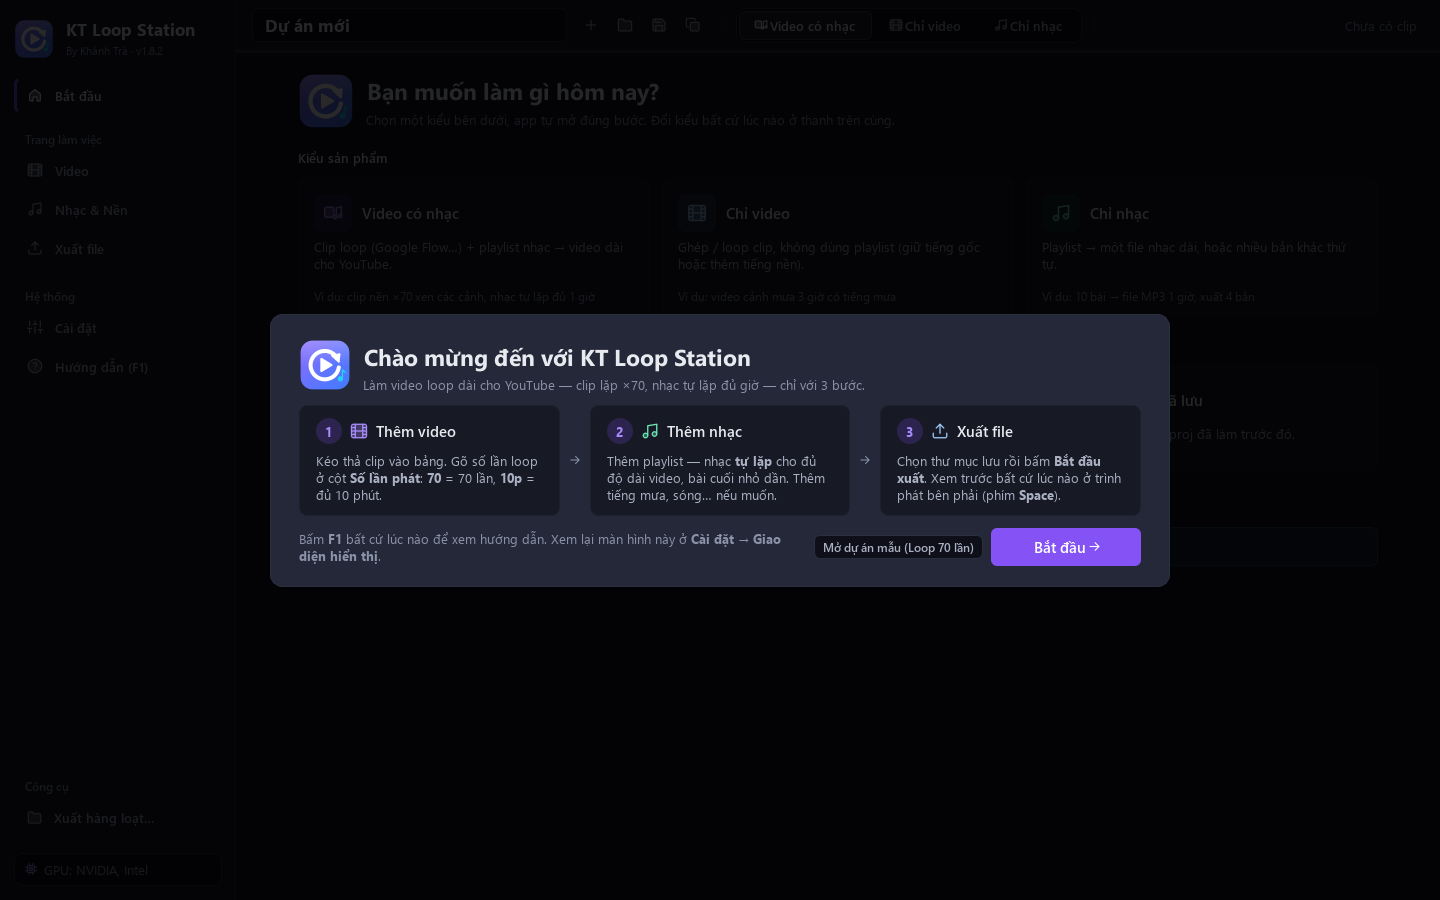
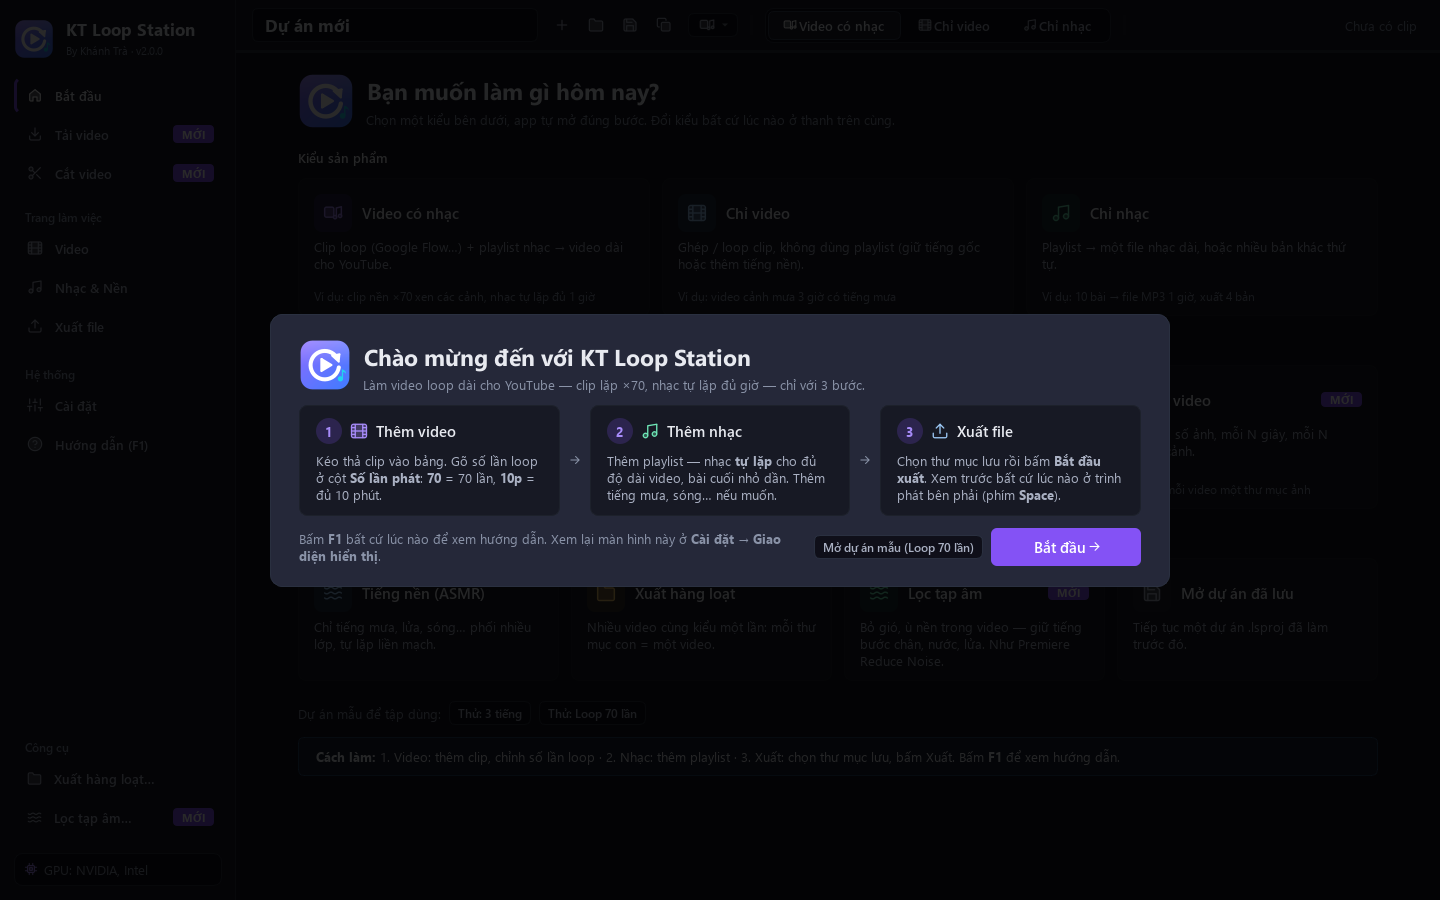
README 2.0: Tải video, Cắt video có ảnh chụp mới, bảng tính năng thêm 3 mục, các bản cũ gấp lại; ảnh chụp chụp lại toàn bộ; ô Chọn tất cả hiện rõ trạng thái chọn một phần

diff --git a/tests/make_screenshots.py b/tests/make_screenshots.py
@@ -154,6 +154,59 @@ wait(0.8)
 lib.grab().save(str(OUT / "10-thu-vien-mau.png"))
 lib.reject()
 
+# Tải video: danh sách mẫu (không gọi mạng) — logo nền tảng, đang tải có thanh tiến độ, nhóm kênh, cột Cài đặt tải
+from loopstation.core.downloader import Group, Item  # noqa: E402
+from loopstation.ui.download_page import PROG_ROLE  # noqa: E402
+dp = win.download_page
+dp._exe_override = ["khong-goi-mang"]  # coi như đã cài công cụ tải (ảnh chụp không tải gì)
+dp._refresh_ready()
+win.go_to(mw.DOWNLOAD_PAGE)
+wait(0.5)
+win.grab().save(str(OUT / "12-tai-video-trong.png"))  # màn hình trống: hướng dẫn 3 bước + logo
+demo_rows = [("Mưa rừng nhiệt đới 3 giờ — tiếng mưa thư giãn", "YouTube", 10800, "Kênh Chill"),
+             ("Hoàng hôn trên biển", "TikTok", 45, "@bien.xanh"), ("城市夜景 4K", "Bilibili", 312, "UP主"),
+             ("Phố cổ về đêm", "Douyin", 30, "抖音用户"), ("Reel cà phê sáng", "Instagram", 20, "cafe.sang"),
+             ("Timelapse mây trời", "X", 58, "@sky"), ("Lửa trại ấm áp", "Facebook", 600, "Camping VN")]
+for i, (t, pf, d, up) in enumerate(demo_rows):
+    e = dp.queue.add_item(Item(f"https://example.com/v{i}", f"v{i}", t, pf, d, "", uploader=up))
+    dp._add_row(e)
+es = dp.queue.entries
+es[0].status, es[0].codec = "done", ""
+es[1].status = "running"
+es[6].status, es[6].message, es[6].checked = "error", "Cần đăng nhập — bấm Đăng nhập trong app", False
+for e in es:
+    dp._paint(e)
+dp._paint(es[1], "62% · 4,8 MB/s")
+dp._row(es[1]).setData(3, PROG_ROLE, 0.62)
+dp.queue.add_group(Group("https://example.com/@kenh/videos", "Kênh Lofi Chill", 0,
+                         [Item(f"https://example.com/k{i}", f"k{i}", f"Lofi số {i + 1}", "YouTube", 180 + i, "",
+                               uploader="Kênh Lofi Chill") for i in range(50)]), 50)
+for e in dp.queue.entries[len(demo_rows):len(demo_rows) + 3]:
+    dp._add_row(e)
+dp._busy = False
+dp._set_busy(True)
+dp._fracs[id(es[1])] = 0.62
+dp._run_done = 1
+dp._changed()
+wait(0.8)
+win.grab().save(str(OUT / "11-tai-video.png"))
+dp._anim.stop()
+dp._busy = False
+dp.queue.clear()
+dp.tree.clear()
+dp._rows.clear()
+dp._group_rows.clear()
+
+# Cắt video: Chia đoạn + Xuất ảnh với 2 video mẫu
+cp = win.cut_page
+cp.add_files([str(x) for x in sorted((ROOT / "Mau-Test" / "Video").glob("*.mp4"))[:3]])
+win.go_to(mw.CUT_PAGE)
+wait(2.5)
+win.grab().save(str(OUT / "13-cat-video.png"))
+cp.set_tab("frames")
+wait(0.8)
+win.grab().save(str(OUT / "14-xuat-anh.png"))
+
 win._closing = True
 win.close()
 wait(0.3)

diff --git a/loopstation/ui/theme.py b/loopstation/ui/theme.py
@@ -588,6 +588,8 @@ QCheckBox::indicator, QTreeView::indicator {{ width: 16px; height: 16px; border-
 QCheckBox::indicator:hover, QTreeView::indicator:hover {{ border-color: {t['accent_text']}; }}
 QCheckBox::indicator:checked, QTreeView::indicator:checked {{ background: {t['accent']};
     border-color: {t['accent']}; image: url("{check}"); }}
+QCheckBox::indicator:indeterminate, QTreeView::indicator:indeterminate {{ background: {rgba(t['accent'], 0.45)};
+    border-color: {t['accent']}; }}
 QCheckBox:disabled {{ color: {t['text_disabled']}; }}
 QCheckBox::indicator:disabled {{ background: {t['panel']}; border-color: {t['line']}; }}
 QCheckBox::indicator:checked:disabled, QTreeView::indicator:checked:disabled {{ background: {rgba(t['accent'], 0.35)};

diff --git a/tests/make_readme_icons.py b/tests/make_readme_icons.py
@@ -20,7 +20,7 @@ from loopstation.ui import icons  # noqa: E402
 ICONS = {"film": "#a78bfa", "repeat": "#f472b6", "music": "#c4b5fd", "waves": "#22d3ee", "sliders": "#fbbf24",
          "zap": "#34d399", "queue": "#60a5fa", "folder": "#fbbf24", "file_plus": "#93c5fd", "eye": "#f9a8d4",
          "play": "#a78bfa", "sort": "#fb923c", "palette": "#f472b6", "home": "#a78bfa", "help": "#93c5fd",
-         "check": "#34d399", "clock": "#fbbf24", "download": "#a78bfa"}
+         "check": "#34d399", "clock": "#fbbf24", "download": "#a78bfa", "scissors": "#f472b6", "image": "#34d399"}
 for name, color in ICONS.items():
     icons.icon(name, 96, color).pixmap(96, 96).save(str(OUT / f"{name}.png"))
 print("Đã lưu", len(ICONS), "biểu tượng vào", OUT)

diff --git a/README.md b/README.md
@@ -4,7 +4,7 @@
 
 # KT Loop Station
 
-**Ghép và loop clip + nhạc thành video YouTube dài hàng giờ — xem trước ngay trong app, xuất nhanh bằng card đồ hoạ.**
+**Ghép và loop clip + nhạc thành video YouTube dài hàng giờ — tải video từ YouTube, TikTok, Douyin, Bilibili…, chia đoạn, xuất ảnh — xem trước ngay trong app, xuất nhanh bằng card đồ hoạ.**
 
 <sub>By Khánh Trà · Ứng dụng Windows · Giao diện tiếng Việt · Bản mới nhất: <b>2.0.0</b></sub>
 
@@ -35,7 +35,39 @@
 
 ## Có gì mới ở 2.0
 
-> **2.0.0** · <b>Tải video</b> (mục riêng ngay dưới Bắt đầu): dán link YouTube, TikTok, <b>Douyin</b>, Bilibili, X, Facebook, Instagram… — app tự đọc, hiện ảnh bìa, tên, thời lượng; link kênh / danh sách phát hiện thành nhóm. Chọn MP4 / MKV gốc / MP3 / M4A, chất lượng Cao nhất · 1080p · 720p · 480p, <b>Luôn ra H.264</b> (trang chỉ có H.265 / AV1 thì app tự chuyển bằng card đồ hoạ — mở được Premiere, CapCut), lưu kèm ảnh bìa / mô tả, phụ đề, chỉ tải đoạn, tải cùng lúc 2–3 video. Công cụ tải (yt-dlp) cài một lần và tự cập nhật; Douyin tải qua trình duyệt riêng trong app. <b>Cắt video</b>: chia video thành nhiều đoạn (số phần, thời lượng cố định / ngẫu nhiên, danh sách mốc, khoảng A–B) và <b>xuất khung hình</b> (theo số ảnh, khoảng thời gian, số khung, chuyển cảnh), một file hay hàng loạt. Chỉ tải nội dung bạn có quyền dùng.
+### Tải video — dán link là xong
+
+<p align="center"><img src="docs/screenshots/11-tai-video.png" width="900" alt="Trang Tải video: danh sách video có logo nền tảng, thanh tiến độ, nhóm kênh, cột Cài đặt tải"></p>
+
+- **Mục riêng ngay dưới Bắt đầu.** Dán một hoặc nhiều link → app **tự đọc**: ảnh bìa, tên, kênh, thời lượng. Rê chuột vào dòng để xem ảnh bìa lớn, bấm đúp để mở video trên trình duyệt.
+- **Nhiều nền tảng:** YouTube · TikTok · **Douyin** · Bilibili · X · Facebook · Instagram… (hơn 1.000 trang). Link **kênh / danh sách phát** hiện thành nhóm, tick sẵn 50 video đầu, có *Hiện thêm*.
+- **Cài đặt tải** luôn ở cột phải: **MP4 · MKV gốc · MP3 · M4A**; chất lượng **Cao nhất · 1080p · 720p · 480p** (MP3: 320 / 192 / 128 kbps).
+- **Luôn ra H.264**: trang chỉ có H.265 / AV1 (TikTok, Bilibili, YouTube 2K/4K) → tải xong app tự chuyển bằng card đồ hoạ, mở được Premiere, CapCut.
+- **Lưu kèm** ảnh bìa (.jpg), tiêu đề + mô tả (.txt); phụ đề; tên file theo mẫu (có *Số thứ tự – Tiêu đề*); **chỉ tải đoạn** (chuột phải › Chỉ tải đoạn…); tải cùng lúc 2–3 video; giới hạn tốc độ.
+- **Danh sách:** lọc theo tên / kênh, nền tảng, trạng thái · **Chọn tất cả** · **Chọn nhanh** (chưa tải, lỗi, đã tải) · **Xoá đã chọn**. Video đã có trong thư mục được bỏ qua, không tải trùng.
+- **Đăng nhập trong app** (Bilibili, Facebook, Instagram, X…): đăng nhập tài khoản của bạn trong trình duyệt riêng của app để tải bản cao hơn (Bilibili 1080p cần đăng nhập) và video cần đăng nhập.
+- **Douyin** tải qua trình duyệt riêng trong app; Douyin hỏi xác minh thì một cửa sổ hiện ra để bạn tự xác minh.
+- Công cụ tải (yt-dlp) cài một lần khi mở trang lần đầu (~65 MB) và **tự cập nhật** mỗi ngày. Mất mạng giữa chừng thì tự tạm dừng, không biến cả danh sách thành lỗi.
+
+> [!NOTE]
+> Chỉ tải nội dung bạn có quyền dùng — tải video người khác để đăng lại có thể vi phạm điều khoản nền tảng và bị gậy bản quyền.
+
+### Cắt video — chia đoạn &amp; xuất ảnh
+
+<table>
+<tr>
+<td width="50%"><img src="docs/screenshots/13-cat-video.png"><p align="center"><sub><b>Chia đoạn</b> — số phần, mỗi đoạn dài, ngẫu nhiên A–B, theo mốc, theo khoảng; đổi tỉ lệ 9:16 / 1:1 (nền mờ, viền đen, cắt)</sub></p></td>
+<td width="50%"><img src="docs/screenshots/14-xuat-anh.png"><p align="center"><sub><b>Xuất ảnh</b> — theo tổng số ảnh, mỗi N giây, mỗi N khung hình, theo chuyển động / đổi cảnh</sub></p></td>
+</tr>
+</table>
+
+- Một video hay **hàng loạt** (kéo thả cả thư mục), mỗi video một thư mục riêng; dòng **Dự kiến** cho biết sẽ ra bao nhiêu đoạn / ảnh trước khi chạy.
+- Chế độ **Chính xác** hoặc **Nhanh** (không mã hoá lại), có tiến độ, nút **Dừng** và nhật ký từng video.
+
+<details>
+<summary><b>Các bản trước</b> (1.9 · 1.8)</summary>
+
+<br>
 
 ## Có gì mới ở 1.9
 
@@ -116,6 +148,8 @@ Trang <b>Xuất</b> có hàng <b>Bitrate hình</b>: chọn <i>Tự đặt bitrat
 <p align="center"><img src="docs/screenshots/04-xuat.png" width="820" alt="Trang Xuất với hàng Bitrate hình và gợi ý độ phân giải theo clip gốc"></p>
 <p align="center"><sub><b>Trang Xuất</b> — gợi ý độ phân giải / fps theo clip gốc, Bitrate hình (mỗi 1 Mbps ≈ 450 MB cho mỗi giờ video)</sub></p>
 
+</details>
+
 <br>
 
 ## Làm được gì
@@ -172,6 +206,23 @@ Mỗi thư mục con thành một video / file nhạc; 3 kiểu xuất, chỉnh 
 Tracklist (dán làm Chapters), mốc thời gian đoạn LOOP / THƯỜNG (<code>.txt .csv .srt</code>, marker DaVinci <code>.edl</code>).
 </td>
 </tr>
+<tr>
+<td valign="top">
+<img src="docs/icons/download.png" width="36"><br>
+<b>Tải video nhiều nền tảng</b><br>
+YouTube, TikTok, Douyin, Bilibili, X, Facebook, Instagram… — dán link, xem trước, tải MP4 / MP3, cả kênh một lần; tự chuyển H.264 để dựng ngay.
+</td>
+<td valign="top">
+<img src="docs/icons/scissors.png" width="36"><br>
+<b>Chia video thành nhiều đoạn</b><br>
+Chia đều, theo độ dài, ngẫu nhiên, theo mốc / khoảng A–B; đổi sang 9:16 nền mờ cho TikTok / Shorts; một file hay hàng loạt.
+</td>
+<td valign="top">
+<img src="docs/icons/image.png" width="36"><br>
+<b>Xuất ảnh từ video</b><br>
+Lấy ảnh theo số ảnh, mỗi N giây, mỗi N khung hình hoặc mỗi lần đổi cảnh — làm thumbnail, ảnh tham khảo.
+</td>
+</tr>
 </table>
 
 <br>
@@ -183,7 +234,7 @@ Tracklist (dán làm Chapters), mốc thời gian đoạn LOOP / THƯỜNG (<cod
 <td width="33%" valign="top" align="center">
 <h1>①</h1>
 <b>Bấm nút “Tải về cho Windows”</b><br>
-<sub>Trình duyệt tải file <code>KTLoopStation-Setup.exe</code> (~195 MB).</sub>
+<sub>Trình duyệt tải file <code>KTLoopStation-Setup.exe</code> (~290 MB).</sub>
 </td>
 <td width="33%" valign="top" align="center">
 <h1>②</h1>
@@ -225,6 +276,10 @@ Tracklist (dán làm Chapters), mốc thời gian đoạn LOOP / THƯỜNG (<cod
 | **2** | **Nhạc &amp; Nền** | Kéo thả bài nhạc — nhạc tự lặp theo độ dài video. Thêm tiếng mưa, chỉnh **Bảng trộn âm** (có nghe thử). |
 | **3** | **Xuất** | Bấm Phát ở **Trình phát** để xem thử, rồi chọn thư mục lưu → **Bắt đầu xuất**, hoặc **Thêm vào hàng đợi** để xuất nhiều video liền nhau. |
 
+**Tải video** (thanh bên, ngay dưới Bắt đầu): dán link → app tự đọc → tick video muốn lấy → **Tải N video**. Lần đầu bấm **Cài công cụ tải**. Cần bản cao hơn / video cần đăng nhập: **Đăng nhập…** ở cột Cài đặt tải.
+
+**Cắt video**: thêm video (hoặc cả thư mục) → chọn thẻ **Chia đoạn** hoặc **Xuất ảnh** → chọn cách cắt / cách lấy ảnh → **Bắt đầu**.
+
 Chọn **kiểu xuất** ở thanh trên cùng: **Video có nhạc** (`.mp4`) · **Chỉ video** (`.mp4`, giữ tiếng gốc clip / thêm tiếng nền) · **Chỉ nhạc** (`.mp3 .m4a .flac .wav`). Thanh bước dưới thanh trên cùng luôn nói việc cần làm tiếp; hướng dẫn có ảnh minh hoạ từng bước nằm ngay trong app: **Hướng dẫn** ở thanh bên hoặc phím <kbd>F1</kbd>.
 
 <p align="center"><img src="docs/screenshots/09-huong-dan-chu-de.png" width="760" alt="Một chủ đề trong Hướng dẫn: thanh tiêu đề, nút mở đúng chỗ trong app, ảnh đánh số"></p>
@@ -257,8 +312,12 @@ Chọn **kiểu xuất** ở thanh trên cùng: **Video có nhạc** (`.mp4`) ·
 
 <table>
 <tr>
-<td width="50%"><img src="docs/screenshots/01-bat-dau.png"><p align="center"><sub><b>Màn hình Bắt đầu</b> — chọn việc muốn làm</sub></p></td>
+<td width="50%"><img src="docs/screenshots/01-bat-dau.png"><p align="center"><sub><b>Màn hình Bắt đầu</b> — kiểu sản phẩm, Tải video · Cắt video, công cụ khác</sub></p></td>
 <td width="50%"><img src="docs/screenshots/03-nhac-bang-tron-am.png"><p align="center"><sub><b>Trang Nhạc</b> — playlist, Bảng trộn âm, tiếng nền</sub></p></td>
+</tr>
+<tr>
+<td><img src="docs/screenshots/12-tai-video-trong.png"><p align="center"><sub><b>Tải video</b> — dán link, 3 bước, các nền tảng hỗ trợ</sub></p></td>
+<td><img src="docs/screenshots/02-video.png"><p align="center"><sub><b>Trang Video</b> — bảng clip, Trình phát, dòng thời gian</sub></p></td>
 </tr>
 <tr>
 <td><img src="docs/screenshots/08-huong-dan.png"><p align="center"><sub><b>Hướng dẫn (F1)</b> — Tổng quan: có gì mới, 3 bước, mọi chủ đề</sub></p></td>
